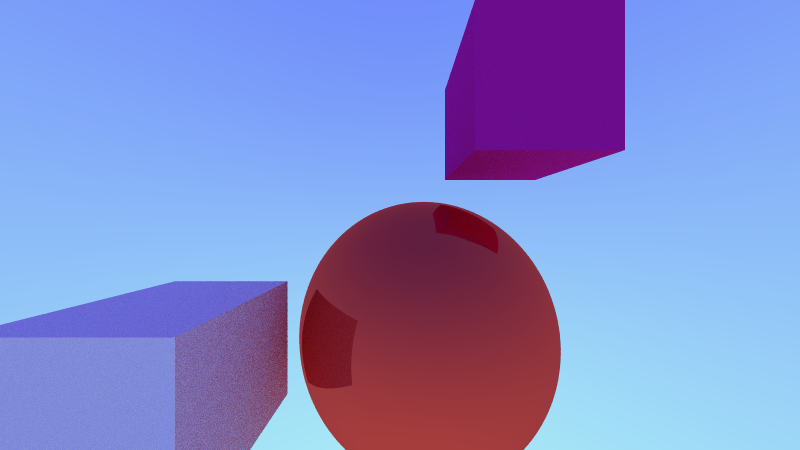
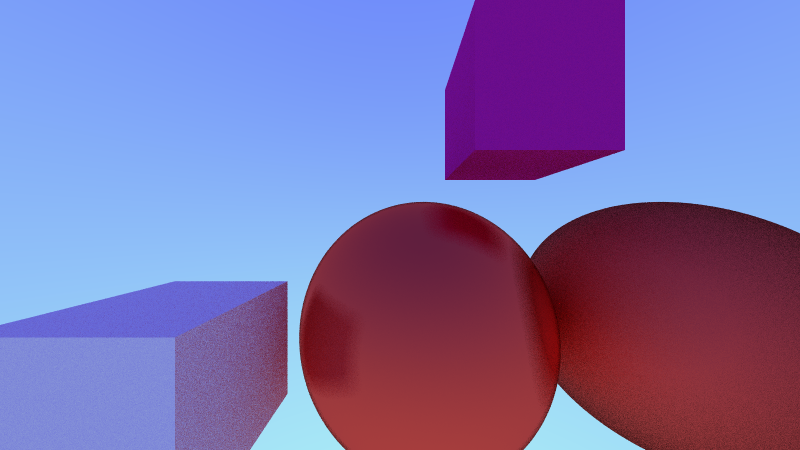
Added fuzzy reflections

diff --git a/src/material.rs b/src/material.rs
@@ -7,16 +7,30 @@ pub trait Material {
 }
 
 pub struct Metal {
-    pub albedo: Vector3<f64>
+    pub albedo: Vector3<f64>,
+    pub fuzz: f64
+}
+
+impl Metal {
+    pub fn new(albedo: Vector3<f64>, fuzz: f64) -> Metal {
+        Metal {
+            albedo: albedo,
+            fuzz: fuzz.clamp(0.0, fuzz)
+        }
+    }
 }
 
 impl Material for Metal {
     fn scatter(&self, ray: Ray, record: &HitRecord) -> Option<(Vector3<f64>, Ray)> {
         let reflected = reflect(ray.direction.normalize(), record.normal);
-        let scattered = Ray::new(record.hit, reflected);
+        let scattered = Ray::new(record.hit, reflected + self.fuzz * rand_normal());
         let attenuation = self.albedo;
+        if scattered.direction.dot(record.normal) <= 0.0 {
+            return None;
+        }
+
         return Some((attenuation, scattered));
-    } 
+    }
 }
 
 pub struct Lambertian {

diff --git a/src/main.rs b/src/main.rs
@@ -147,13 +147,23 @@ fn main() {
         })
     ));
 
-    // Sphere
+    // Spheres
     objects.push(Box::new(Sphere {
         origin: Vector3::new(0.05, -0.2, -0.5),
         radius: 0.25,
-        material: Rc::new(Metal {
-            albedo: Vector3::new(0.94, 0.25, 0.25)
-        })
+        material: Rc::new(Metal::new(
+            Vector3::new(0.94, 0.25, 0.25),
+            0.2
+        ))
+    }));
+    
+    objects.push(Box::new(Sphere {
+        origin: Vector3::new(0.55, -0.2, -0.5),
+        radius: 0.25,
+        material: Rc::new(Metal::new(
+            Vector3::new(0.94, 0.25, 0.25),
+            0.9
+        ))
     }));
 
     camera.render(&objects).save("test.png").unwrap();
